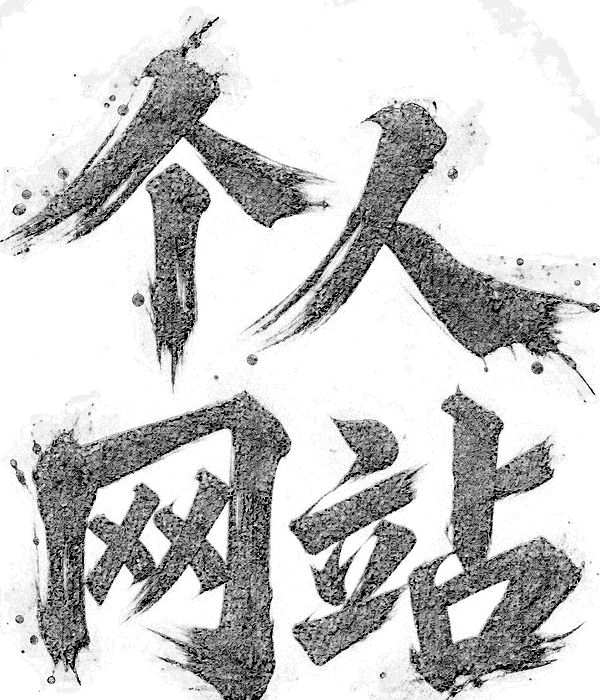
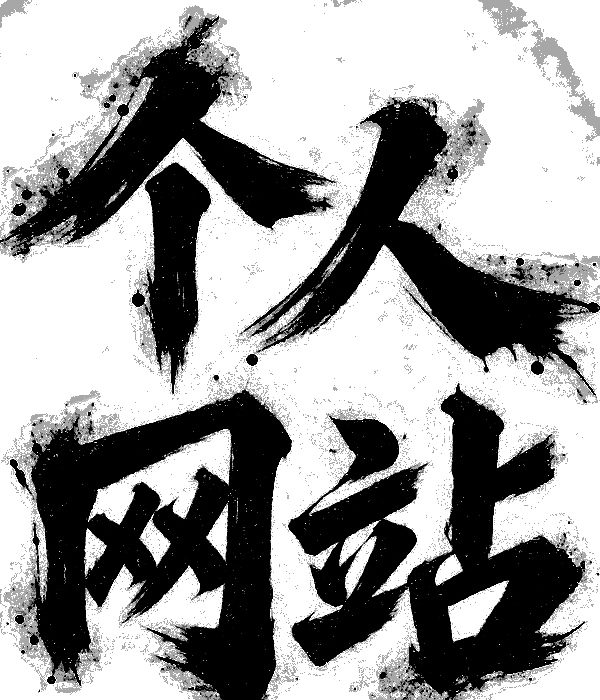
refine: strengthen ink lettering texture

diff --git a/public/slides/decks/personal-site-coolness/index.html b/public/slides/decks/personal-site-coolness/index.html
@@ -1311,7 +1311,7 @@
   <div class="canvas-card">
     <div class="chrome-min tight"><div class="l">PERSONAL SITE · MOTION STUDY</div><div class="r">SS · 26.08.14 · 01 / 09</div></div>
     <div class="glyph-cover">
-      <div class="glyph-anchor-zone" data-anim="glyph"><img class="glyph-lettering" src="./assets/personal-site-lettering.png?v=0dd72f5" alt="个人网站艺术字" /><div class="glyph-index">ANCHOR · 01</div></div>
+      <div class="glyph-anchor-zone" data-anim="glyph"><img class="glyph-lettering" src="./assets/personal-site-lettering.png?v=ink-strong" alt="个人网站艺术字" /><div class="glyph-index">ANCHOR · 01</div></div>
       <div class="glyph-copy"><div class="t-meta glyph-kicker" data-anim="kicker">SCROLL / SPACE / MOTION</div><h1 class="glyph-title" data-anim="title">如何做个人名片？</h1><h2 class="glyph-subtitle" data-anim="subtitle">设计信息如何惊艳的被看见。</h2><div class="glyph-speaker" data-anim="speaker">落尘 · Personal Site</div></div>
     </div>
     <div class="glyph-footer" data-anim="footer"><span>WEB EXPERIENCE FIELD NOTE</span><a href="?slide=8" style="color:inherit;text-decoration:none">→ 交互案例 / 08</a><span>→ SWIPE / ARROW KEYS</span></div>
